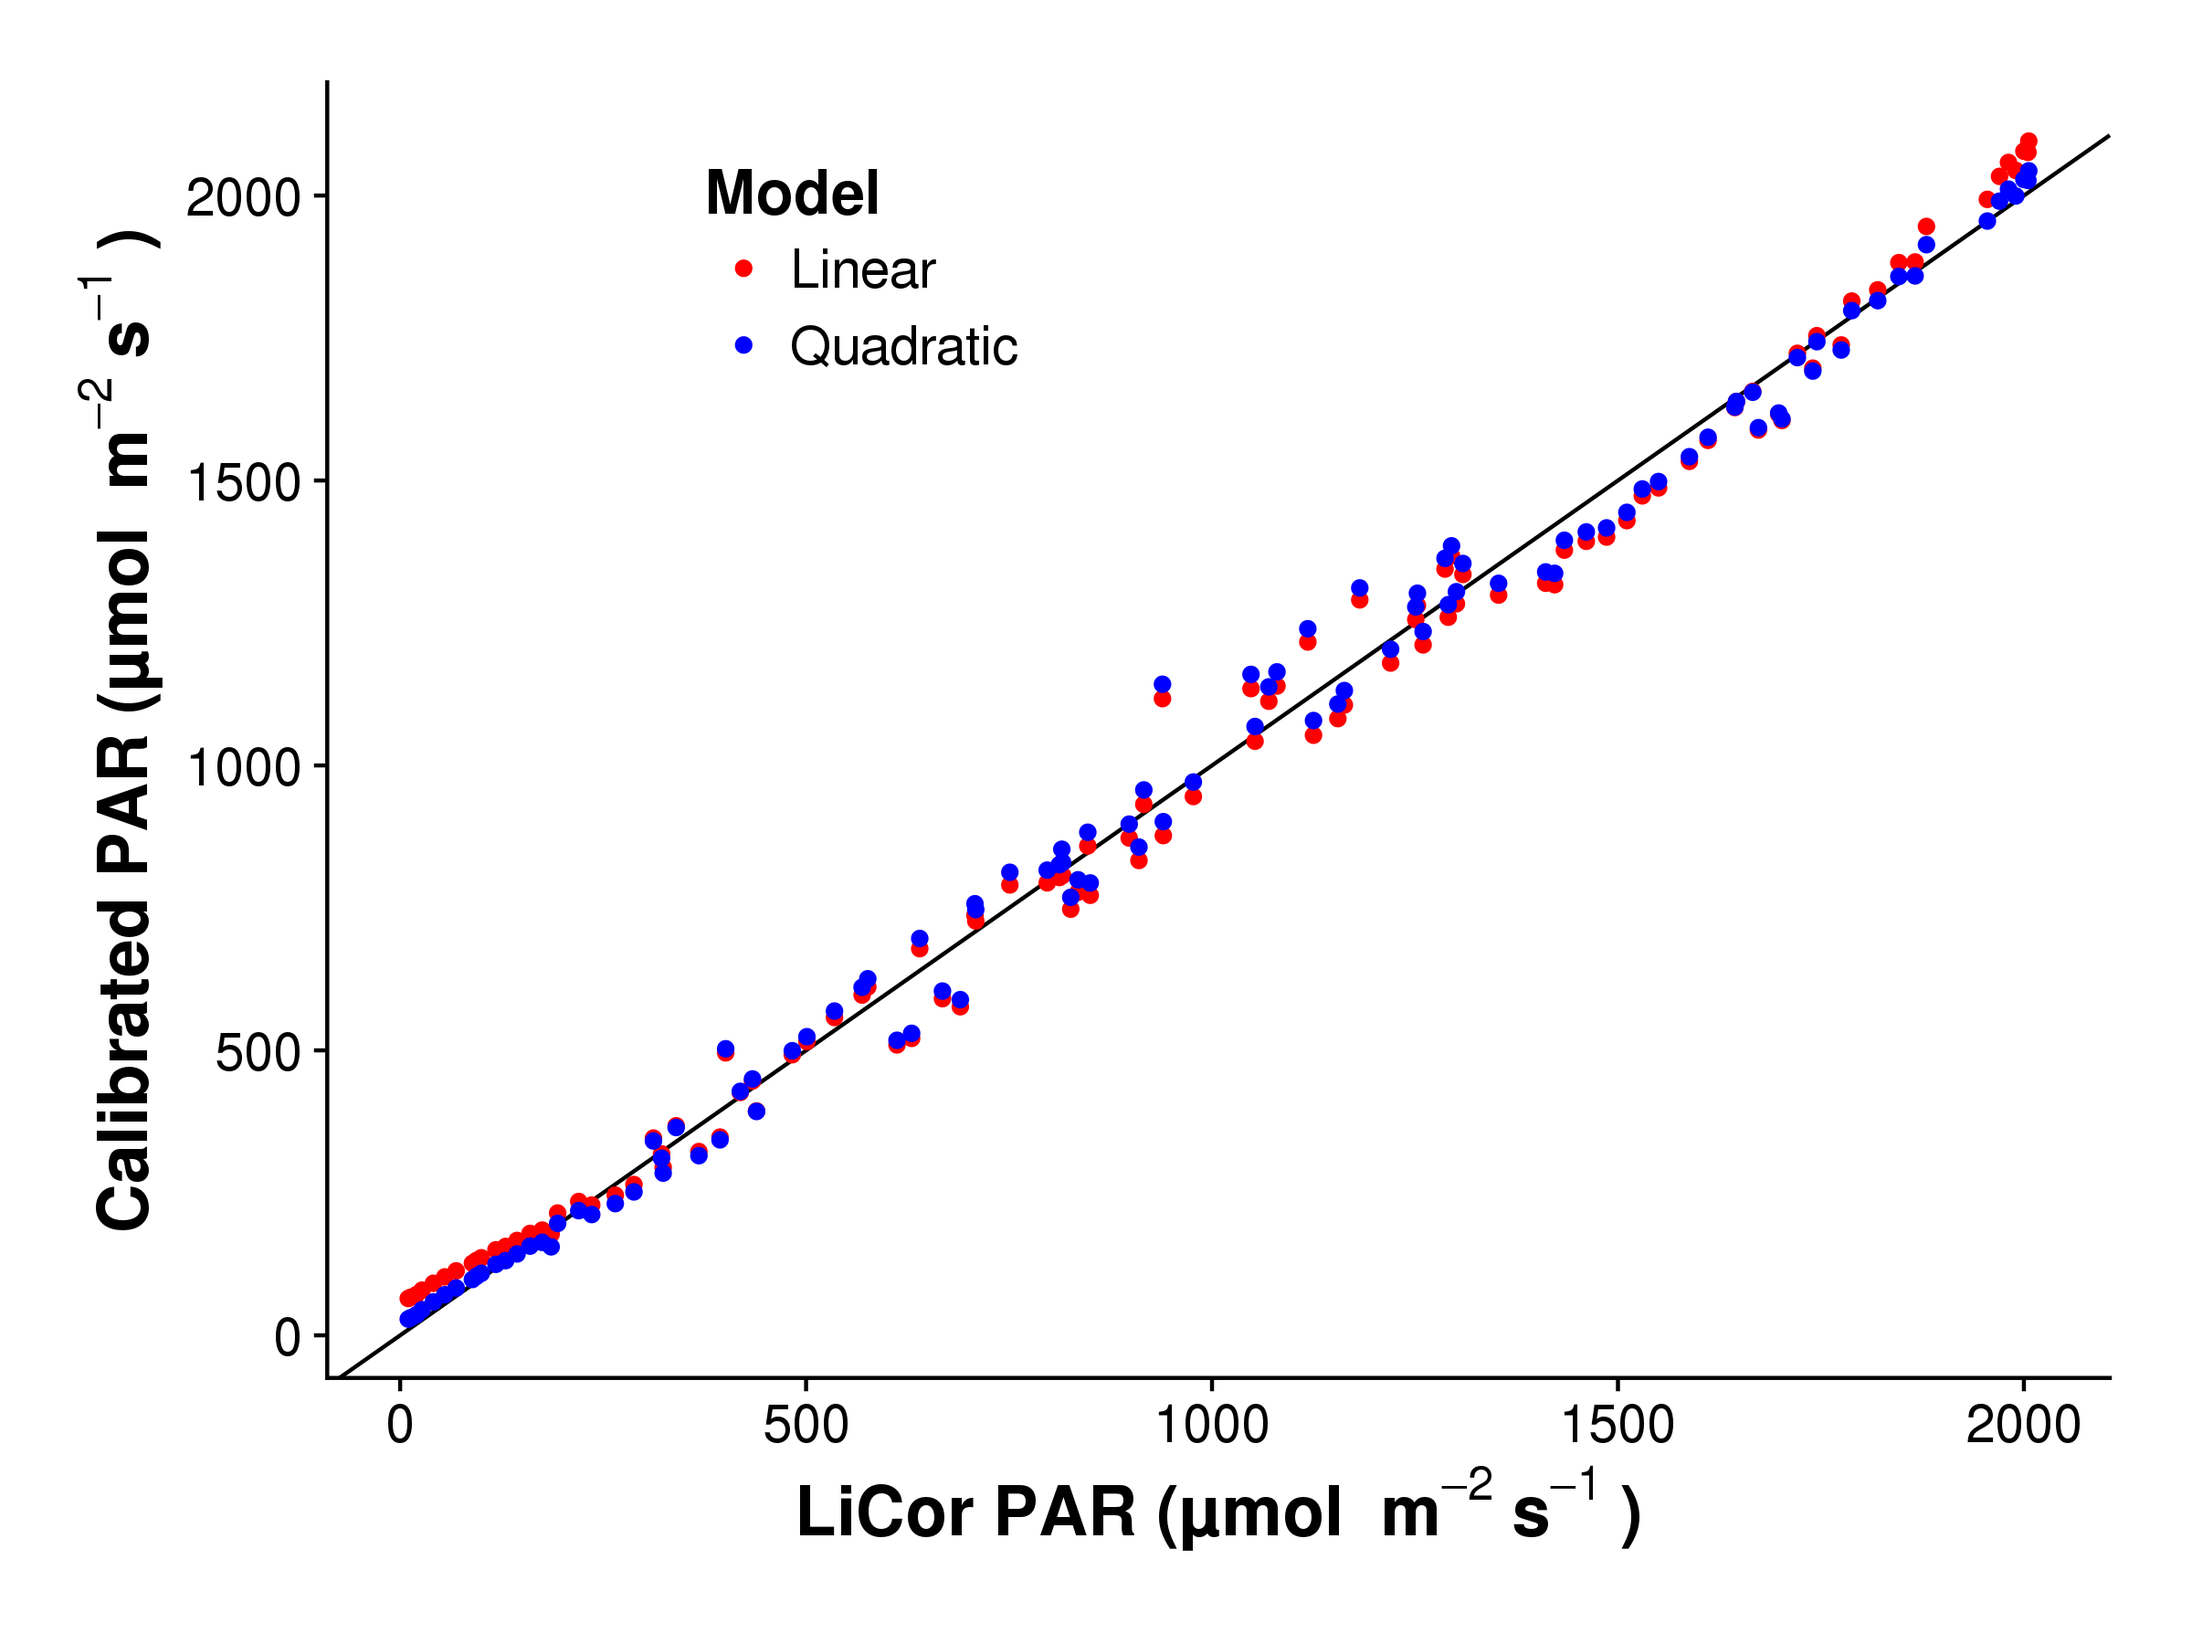
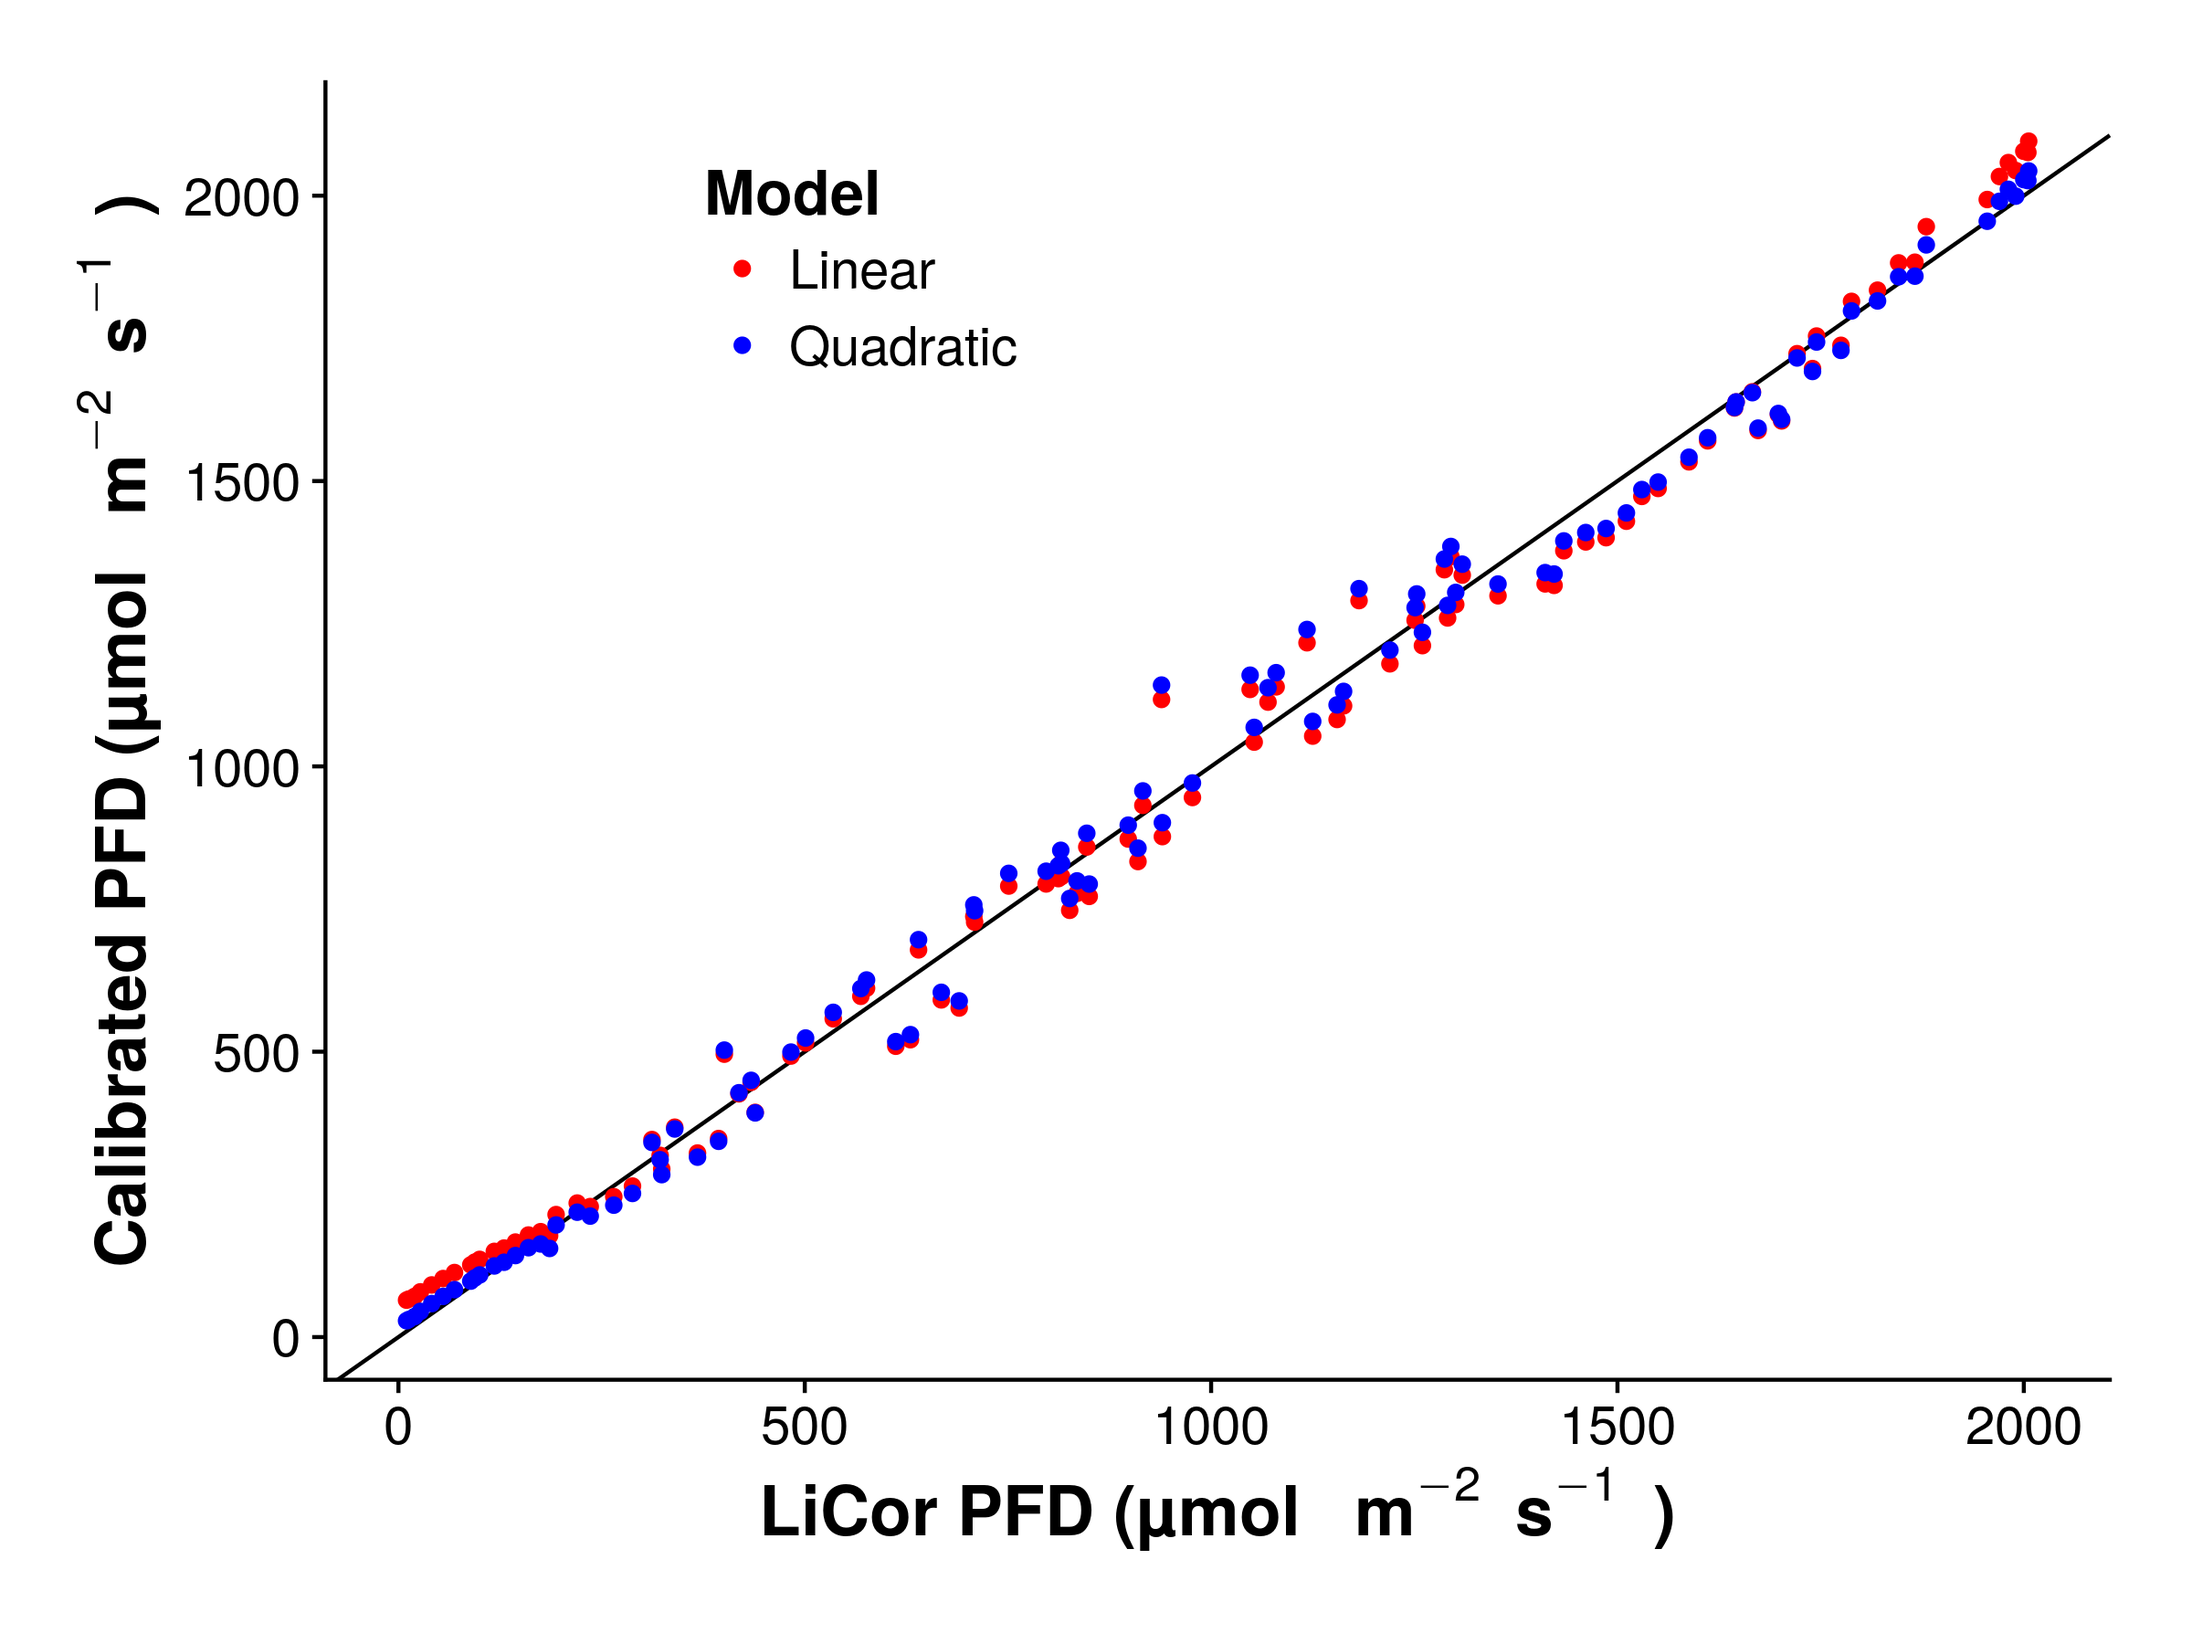
Replaced PAR with PFD in graphs

diff --git a/EMU-Analysis/Analyses/Calibration/Calibration.md b/EMU-Analysis/Analyses/Calibration/Calibration.md
@@ -1,5 +1,5 @@
 ---
-title: "LiCor Calibration"
+title: "Calibration"
 author: "James Mickley"
 output:
   html_document:
@@ -19,7 +19,7 @@ graphics: yes
 
 This analysis calibrates the light and soil moisture sensors.
 
-The light sensor is calibrated for PAR against a LiCor and compared to a Hobo, while the soil probes are calibrated against measured volumetric water content and compared to a Hobo.
+The light sensor is calibrated for PFD against a LiCor and compared to a Hobo, while the soil probes are calibrated against measured volumetric water content and compared to a Hobo.
 
 
 
@@ -99,7 +99,7 @@ The best calibration is the quadratic model, presented here alone
 
 ![](Calibration_files/figure-html/Light_quad_calibration-1.png)<!-- -->
 
-[Root mean square](https://en.wikipedia.org/wiki/Root_mean_square#Error) error between predicted values from the quadratic light model and PAR values from the LiCor.  This gives a measure of accuracy.
+[Root mean square](https://en.wikipedia.org/wiki/Root_mean_square#Error) error between predicted values from the quadratic light model and PFD values from the LiCor.  This gives a measure of accuracy.
 
 
 ```
@@ -107,7 +107,7 @@ The best calibration is the quadratic model, presented here alone
 1    2597.424         50.96493
 ```
 
-Graph showing the predicted values of PAR from the quadratic model graphed against the LiCor
+Graph showing the predicted values of FD from the quadratic model graphed against the LiCor
 
 ![](Calibration_files/figure-html/Light_predict-1.png)<!-- -->
 
@@ -351,11 +351,12 @@ Comparison of predicted values of VWC from the EMU sensors and VWC from the Hobo
 
 ```
 R version 3.4.3 (2017-11-30)
-Platform: x86_64-redhat-linux-gnu (64-bit)
-Running under: CentOS Linux 7 (Core)
+Platform: x86_64-pc-linux-gnu (64-bit)
+Running under: Ubuntu Bionic Beaver (development branch)
 
 Matrix products: default
-BLAS/LAPACK: /usr/lib64/R/lib/libRblas.so
+BLAS: /usr/lib/x86_64-linux-gnu/blas/libblas.so.3.7.1
+LAPACK: /usr/lib/x86_64-linux-gnu/lapack/liblapack.so.3.7.1
 
 locale:
  [1] LC_CTYPE=en_US.UTF-8       LC_NUMERIC=C              
@@ -370,20 +371,20 @@ attached base packages:
 [8] base     
 
 other attached packages:
-[1] bindrcpp_0.2   dplyr_0.7.4    tidyr_0.7.2    bbmle_1.0.20  
-[5] ggpmisc_0.2.16 cowplot_0.9.1  ggplot2_2.2.1 
+[1] bindrcpp_0.2   dplyr_0.7.4    tidyr_0.8.0    bbmle_1.0.20  
+[5] ggpmisc_0.2.16 cowplot_0.9.2  ggplot2_2.2.1 
 
 loaded via a namespace (and not attached):
- [1] Rcpp_0.12.13      compiler_3.4.3    plyr_1.8.4       
- [4] bindr_0.1         tools_3.4.3       digest_0.6.12    
- [7] evaluate_0.10.1   tibble_1.3.4      gtable_0.2.0     
-[10] lattice_0.20-35   pkgconfig_2.0.1   rlang_0.1.4      
-[13] yaml_2.1.14       polynom_1.3-9     stringr_1.2.0    
-[16] knitr_1.17        tidyselect_0.2.3  rprojroot_1.2    
-[19] grid_3.4.3        glue_1.2.0        R6_2.2.2         
-[22] rmarkdown_1.8     purrr_0.2.4       magrittr_1.5     
-[25] backports_1.1.1   scales_0.5.0      codetools_0.2-15 
-[28] htmltools_0.3.6   assertthat_0.2.0  colorspace_1.3-2 
-[31] numDeriv_2016.8-1 labeling_0.3      stringi_1.1.6    
-[34] lazyeval_0.2.1    munsell_0.4.3    
+ [1] Rcpp_0.12.15      pillar_1.1.0      compiler_3.4.3   
+ [4] plyr_1.8.4        bindr_0.1         tools_3.4.3      
+ [7] digest_0.6.15     evaluate_0.10.1   tibble_1.4.2     
+[10] gtable_0.2.0      lattice_0.20-35   pkgconfig_2.0.1  
+[13] rlang_0.2.0       yaml_2.1.16       polynom_1.3-9    
+[16] stringr_1.3.0     knitr_1.20        rprojroot_1.3-2  
+[19] grid_3.4.3        tidyselect_0.2.3  glue_1.2.0       
+[22] R6_2.2.2          rmarkdown_1.8     purrr_0.2.4      
+[25] magrittr_1.5      backports_1.1.2   scales_0.5.0     
+[28] codetools_0.2-15  htmltools_0.3.6   assertthat_0.2.0 
+[31] colorspace_1.3-2  numDeriv_2016.8-1 labeling_0.3     
+[34] stringi_1.1.6     lazyeval_0.2.1    munsell_0.4.3    
 ```
